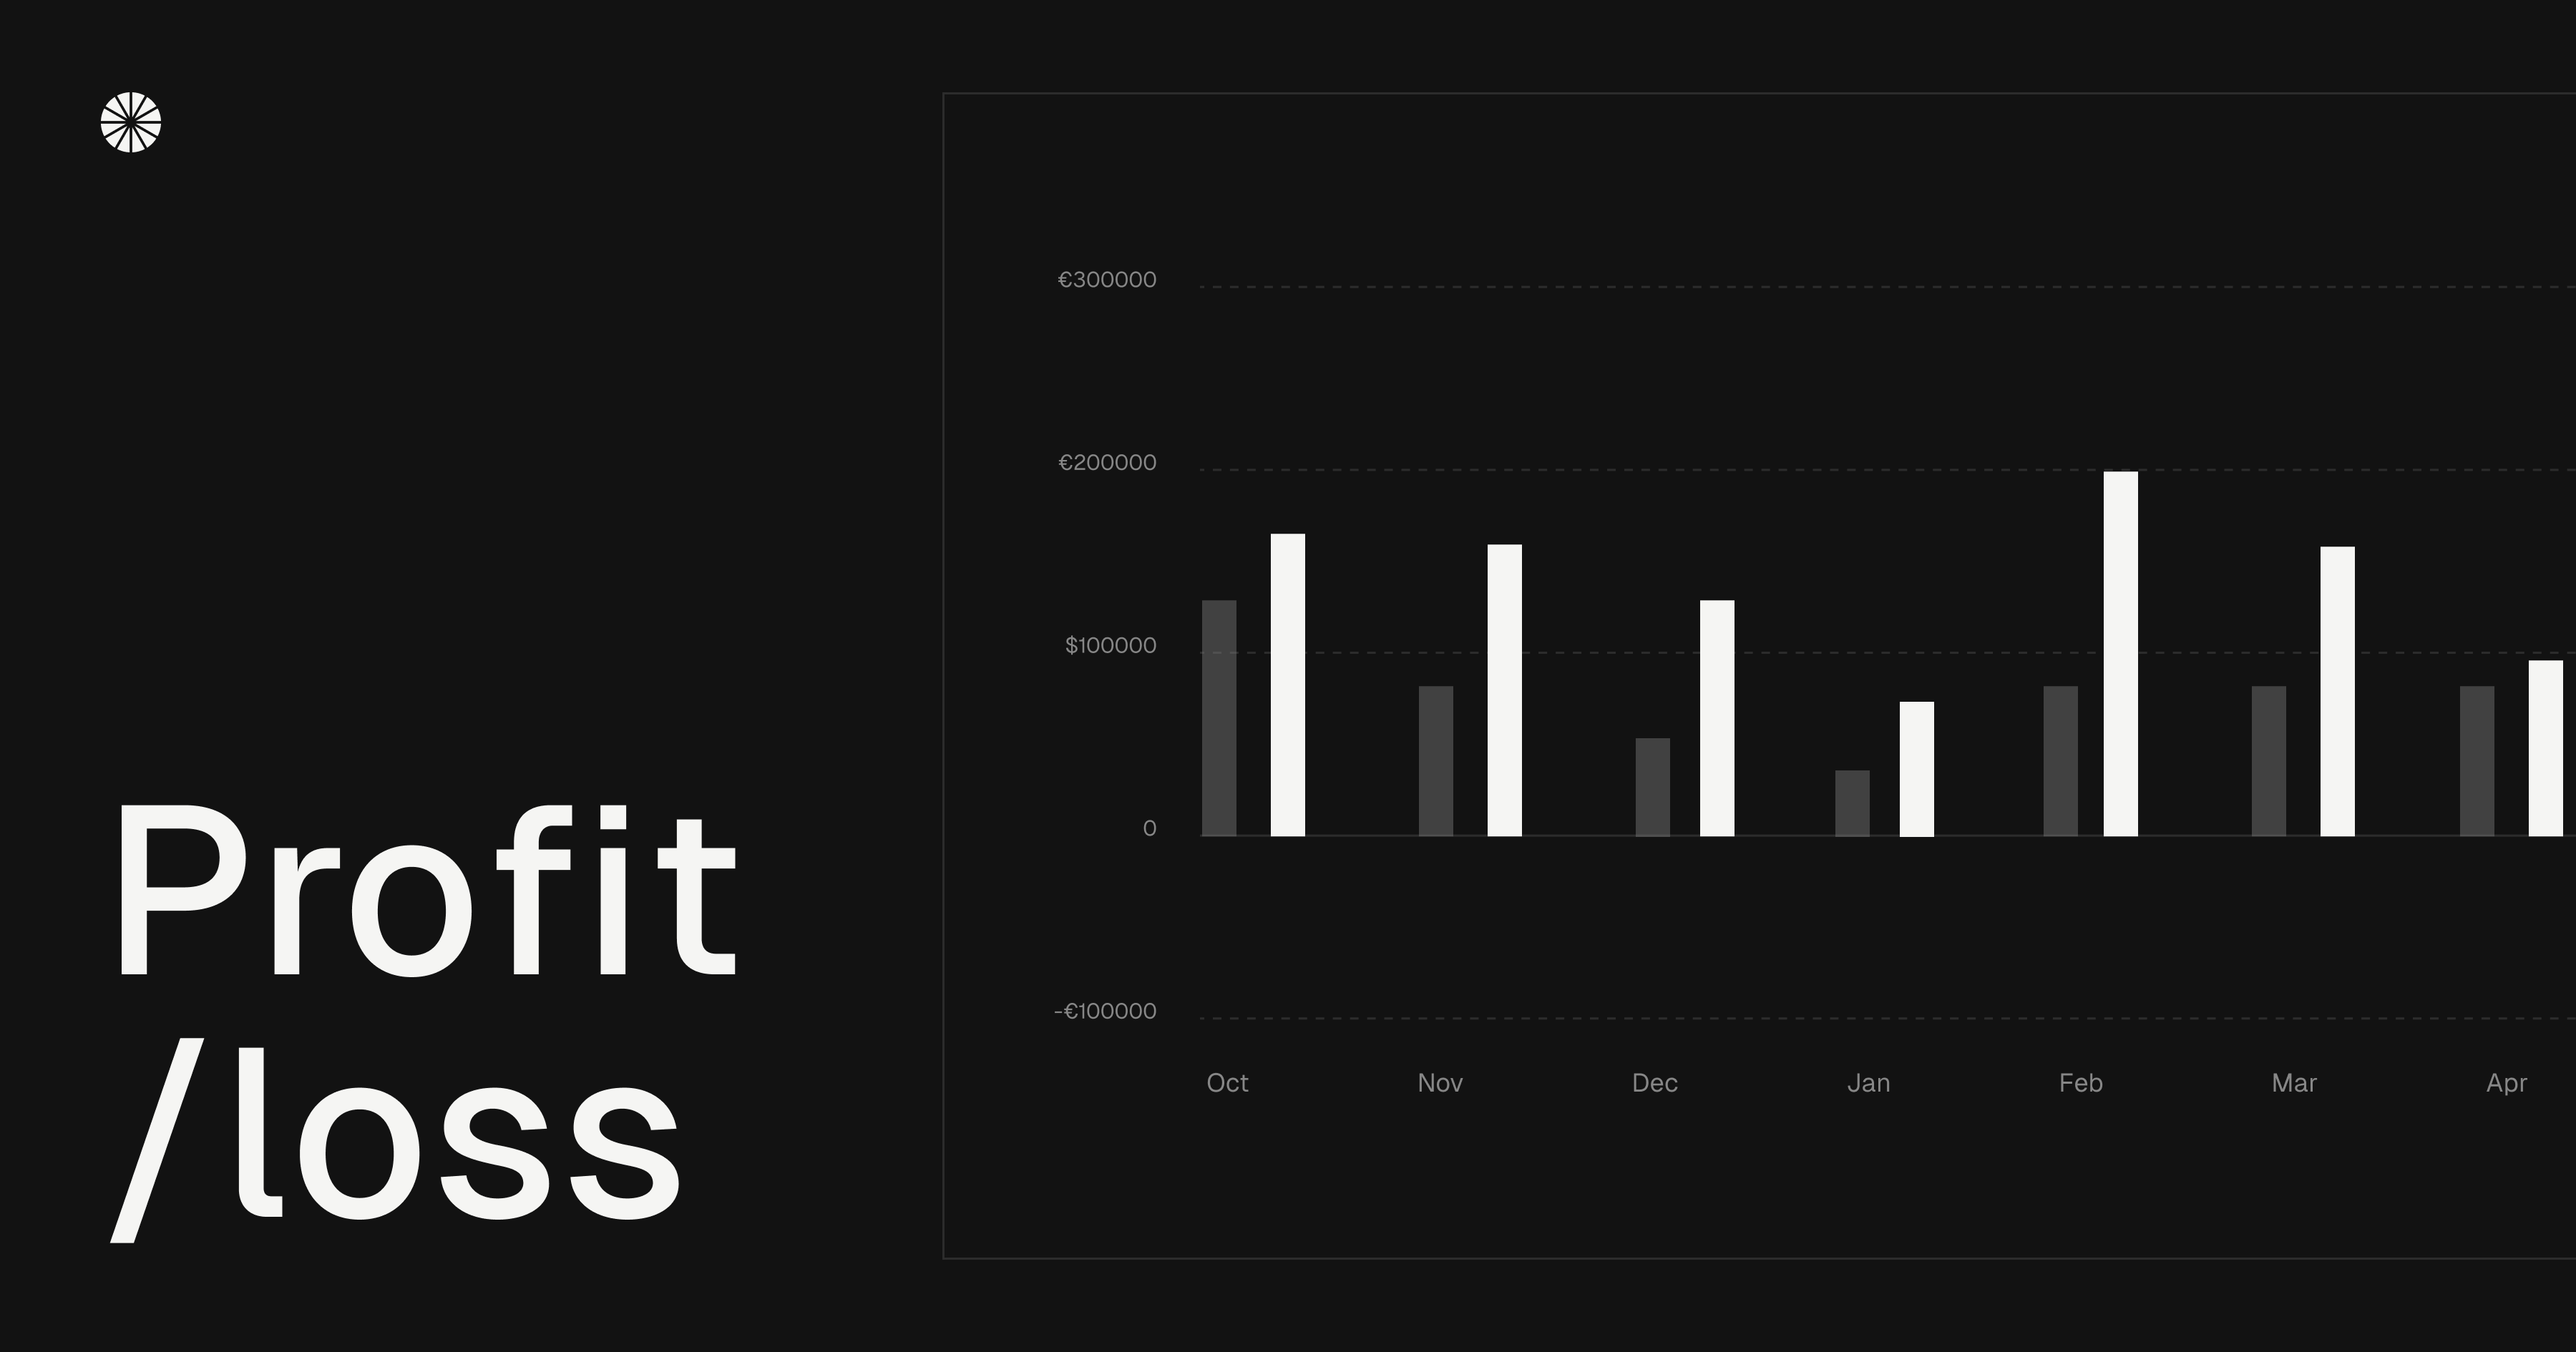
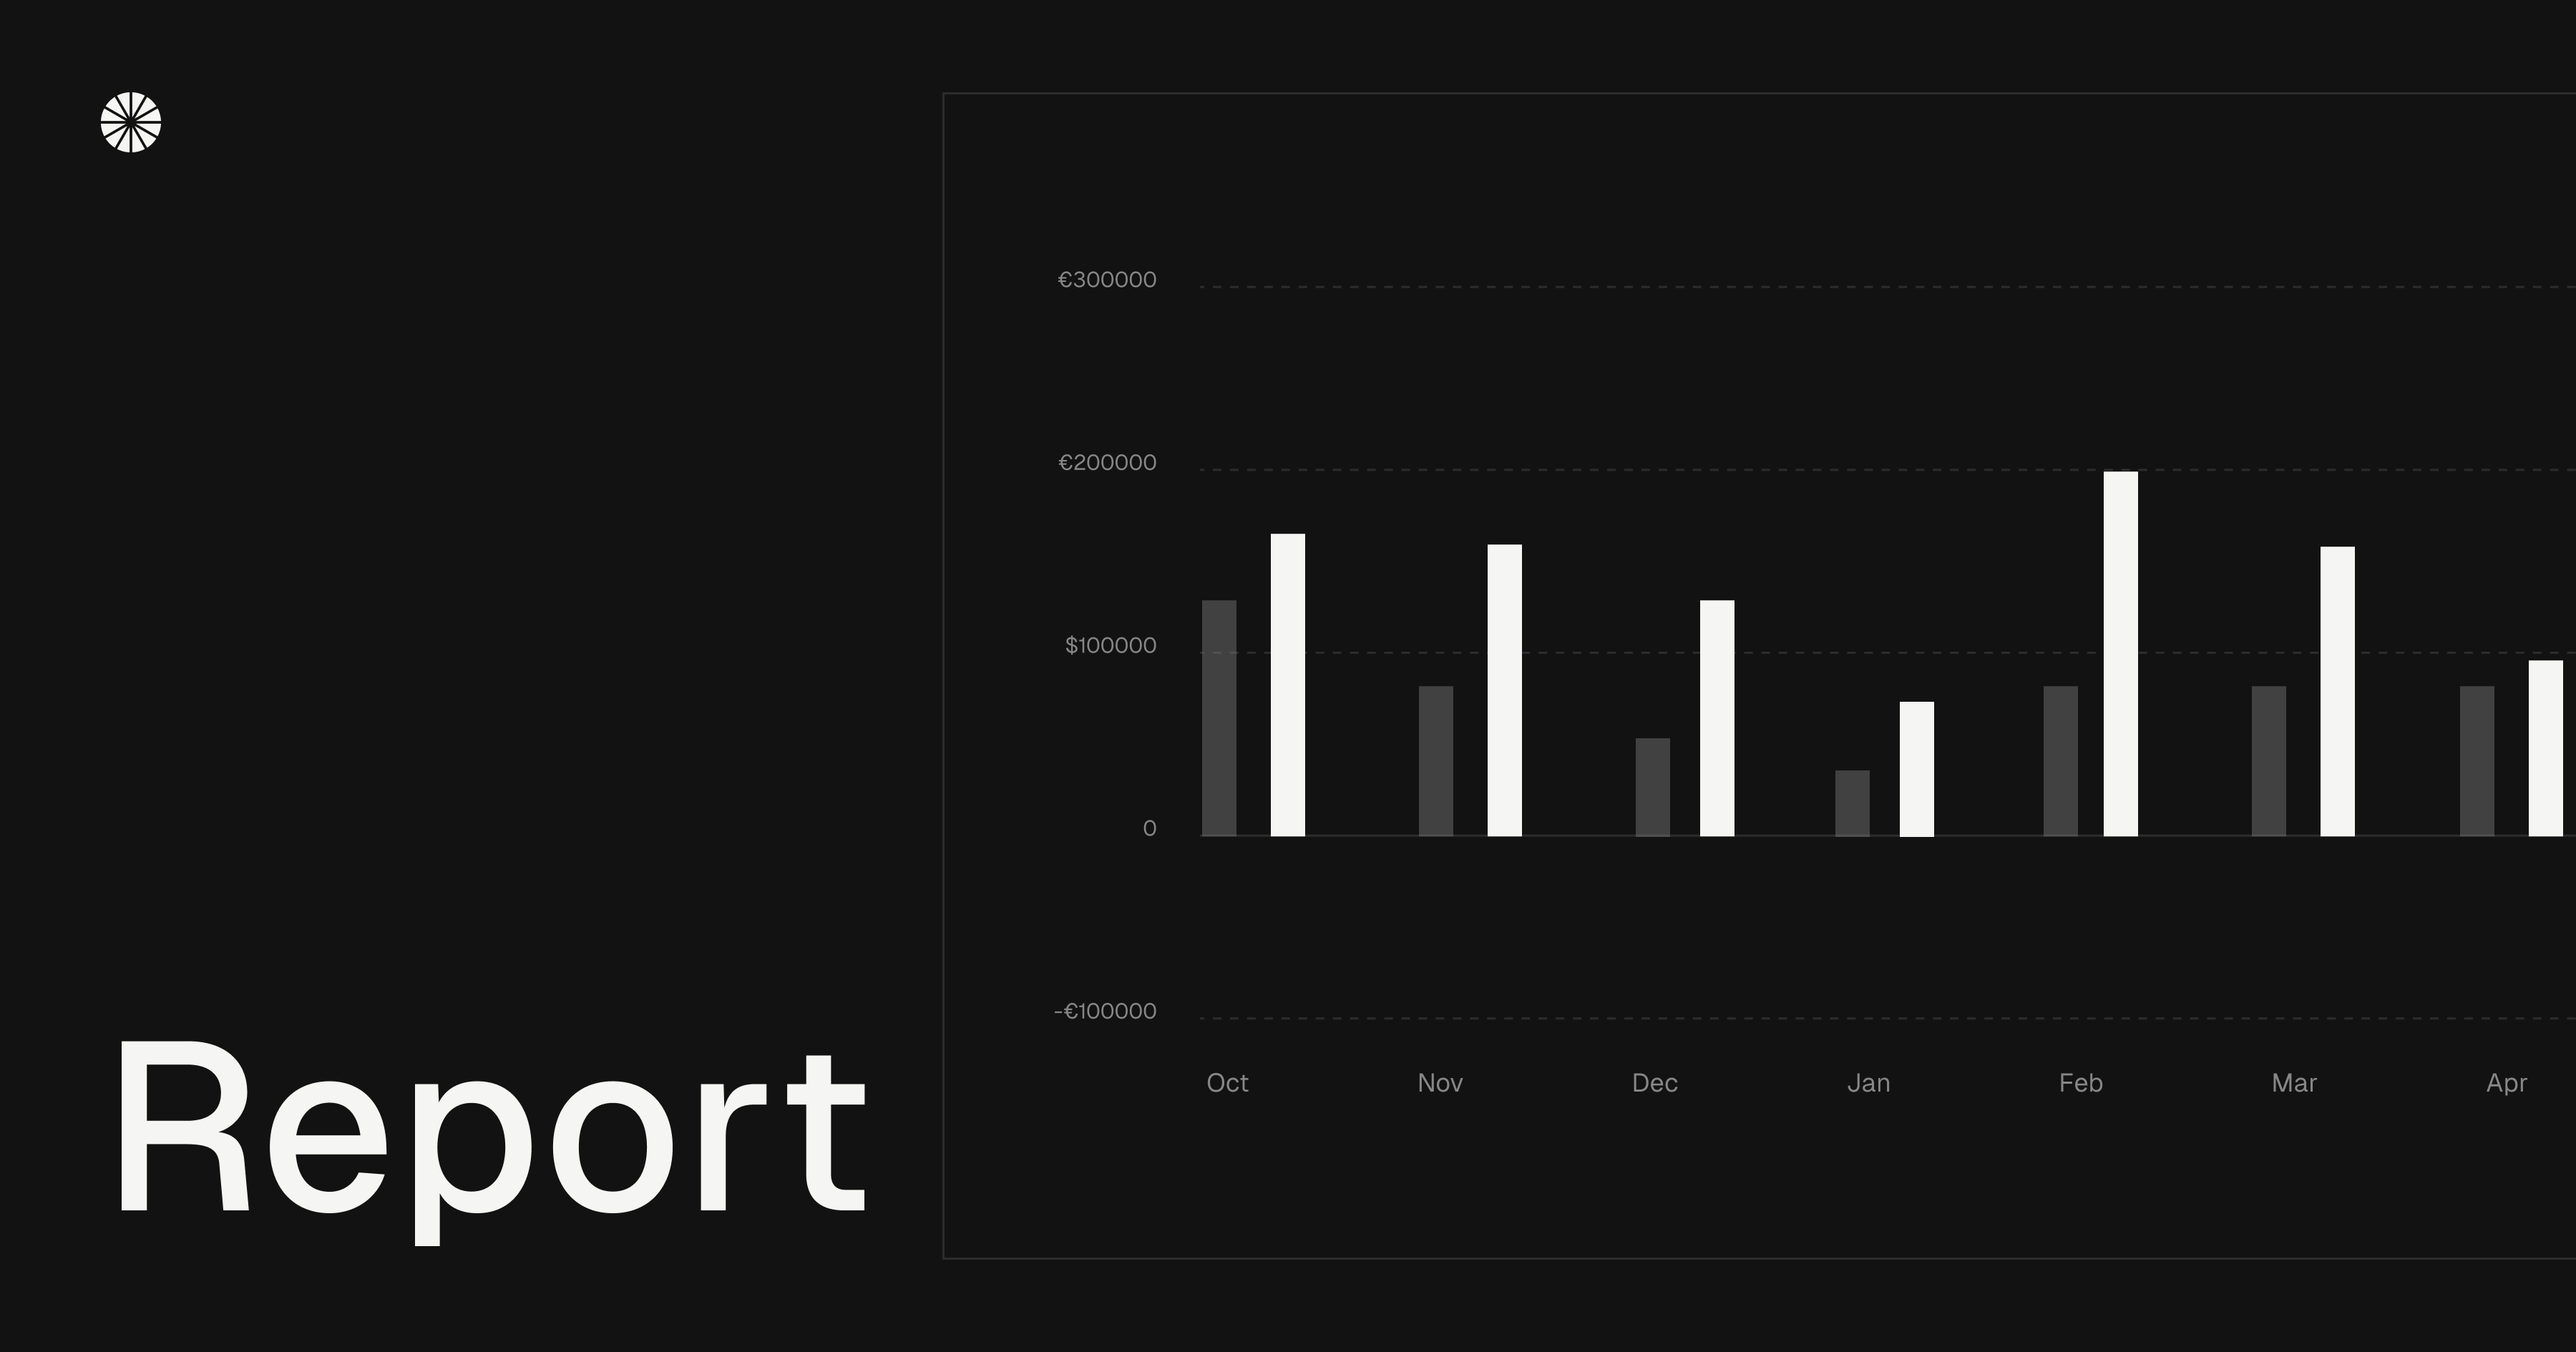
OG images

Changed region(s): [[0.0311, 0.7492, 0.3422, 0.9365], [0.0311, 0.5931, 0.28, 0.718]]

diff --git a/apps/dashboard/src/app/[locale]/(public)/report/[id]/page.tsx b/apps/dashboard/src/app/[locale]/(public)/report/[id]/page.tsx
@@ -29,7 +29,9 @@ export async function generateMetadata({ params }): Promise<Metadata> {
 
   return {
     title: `Report for ${data.team.name} (${period})`,
-    description: `Profit report for ${data.team.name} based on the period ${period}`,
+    description: `${data.type === "profit" ? "Profit" : "Revenue"} report for ${
+      data.team.name
+    } based on the period ${period}`,
     robots: {
       index: false,
     },
@@ -61,7 +63,9 @@ export default async function Report({ params }) {
       <div className="flex items-center justify-center w-full h-[80px] border-b-[1px]">
         <div className="flex items-center flex-col">
           <div>{data.team.name}</div>
-          <span className="text-[#878787]">Profit</span>
+          <span className="text-[#878787]">
+            {data.type === "profit" ? "Profit" : "Revenue"}
+          </span>
         </div>
       </div>
 
